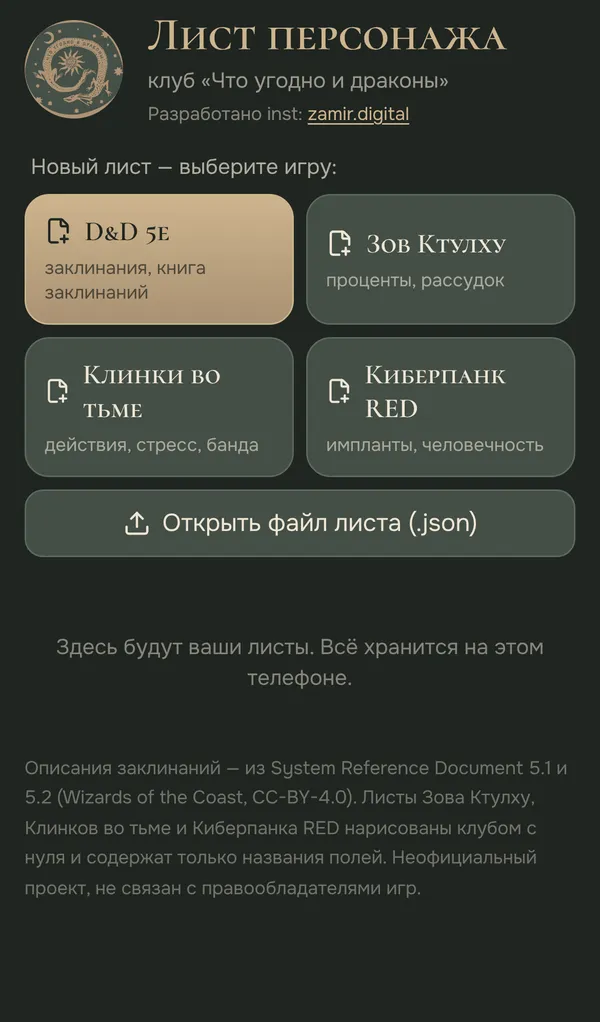
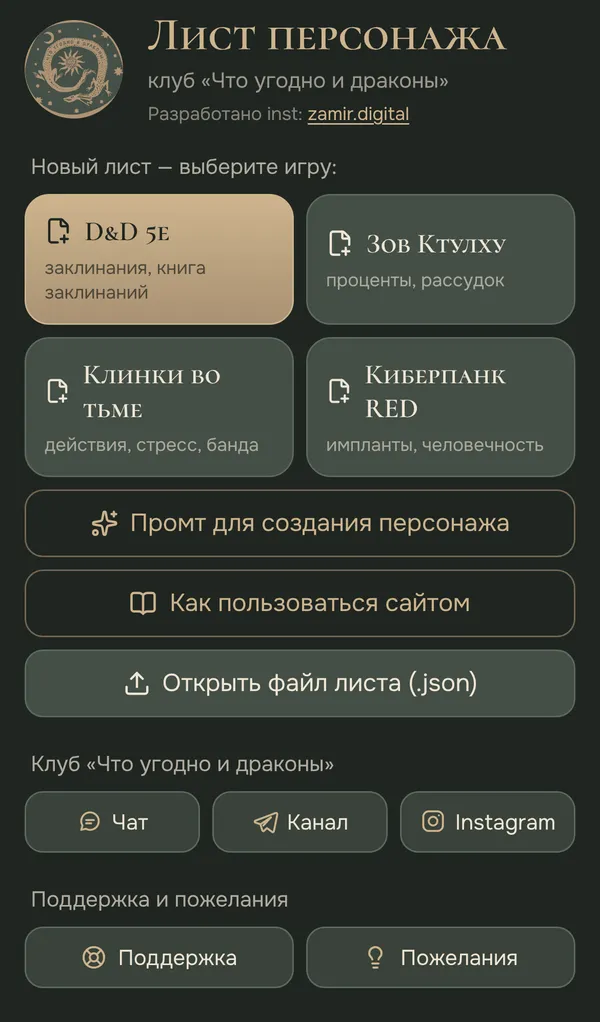
Заполнение прямо на листе (с выбором «в отдельном окне»), отмена правок, обновлённое руководство
Claude-Session: https://claude.ai/code/session_014psmEQcGbUgNjXWpQgP92z

diff --git a/src/help.ts b/src/help.ts
@@ -54,6 +54,7 @@ export const HELP: HelpSection[] = [
         'Стрелка слева вверху возвращает на главную. Лист уже сохранён, отдельно сохранять не нужно.',
         'Две закруглённые стрелки отменяют и возвращают последнее действие. Если случайно что-то стёрли, жмите «отменить».',
         'Три точки справа открывают меню листа: стиль, PDF, копию и сохранение файлом.',
+        'Кнопка «Стиль» над первой страницей открывает оформление листа: стили, шрифты, эмблему.',
         'Страницы листа идут друг за другом, прокручивайте вниз.',
         'Внизу кнопки «Страница», «Блок» и «PDF».',
       ] },
@@ -61,20 +62,21 @@ export const HELP: HelpSection[] = [
   },
   {
     id: 'fill', title: 'Заполнение', items: [
-      { p: 'Коснитесь любого поля на листе. Откроется окно, в нём впишите текст и нажмите «Сохранить». «Отмена» закроет окно без изменений.' },
-      { imgs: [{ img: '03-fill-field', cap: 'Короткое поле' }, { img: '04-fill-text', cap: 'Большой текст' }] },
+      { p: 'Нажмите на поле и пишите прямо на листе: имя, класс, внешность, предыстория, числа, таблицы с оружием и монетами. Сохранять ничего не нужно, всё запоминается сразу. Кружки отмечаются касанием.' },
+      { img: '03-inline' },
+      { p: 'Несколько блоков открываются в отдельном окне, потому что в них много мелких отметок: характеристики с навыками, навыки в процентах, список заклинаний, шкалы чисел и ячейки заклинаний. В окне нажмите «Сохранить» или «Отмена».' },
       { p: 'В углу больших текстовых блоков есть маленькие кнопки «−» и «+». Они уменьшают и увеличивают шрифт текста внутри блока, чтобы длинная предыстория поместилась. Заголовок блока при этом не меняется.' },
-      { img: '05-fontsize' },
-      { tip: 'Сайт иногда запрещает менять блок, например QR-коды клуба или заголовки. Тогда просто вписывайте в них данные, как обычно.' },
+      { tip: 'Мелко? Разведите лист двумя пальцами, чтобы приблизить. Если удобнее заполнять всё через окно, как раньше: кнопка «Стиль» → «Как заполнять поля» → «В отдельном окне».' },
+      { tip: 'Ошиблись — стрелка «отменить» вверху вернёт поле, каким оно было до правки.' },
     ],
   },
   {
     id: 'auto', title: 'Что считается само (D&D)', items: [
-      { p: 'Нажмите на характеристику и впишите значение. Модификатор посчитается сам.' },
+      { p: 'Нажмите на характеристику: откроется окно. Впишите значение, модификатор посчитается сам.' },
       { p: 'Кружок рядом со спасброском или навыком означает владение. Отметьте его, и к числу прибавится бонус мастерства. Бонус мастерства сайт берёт из уровня персонажа, поэтому уровень лучше вписать сразу.' },
       { imgs: [{ img: '06-fill-ability', cap: 'Характеристика с навыками' }, { img: '07-stats', cap: 'Страница характеристик' }] },
       { p: 'Ещё сами считаются инициатива и пассивная внимательность. Если вписать число вручную, сайт оставит ваше.' },
-      { p: 'Кружки (спасброски от смерти, ячейки заклинаний) отмечаются касанием в окне блока. Кнопками «−» и «+» в окне можно изменить, сколько кружков в ряду: например, добавить ячейки при новом уровне.' },
+      { p: 'Спасброски от смерти и другие кружки отмечаются касанием прямо на листе. Ячейки заклинаний открываются в окне: там кнопками «−» и «+» меняется, сколько ячеек каждого круга, например при новом уровне.' },
       { imgs: [{ img: '08-fill-circles', cap: 'Спасброски от смерти' }, { img: '09-fill-slots', cap: 'Ячейки заклинаний' }] },
     ],
   },

diff --git a/src/Page.tsx b/src/Page.tsx
@@ -105,6 +105,9 @@ export function PageShell({ scale, sheet, num, children }: { scale: number; shee
   );
 }
 
+/** блоки, которые заполняются прямо на листе; остальные (навыки, заклинания, шкалы) — в окне */
+const INLINE = new Set<Block['type']>(['title', 'field', 'text', 'stat', 'table', 'circles', 'checklist', 'pctstat', 'image']);
+
 type Drag = { edge: 'right' | 'bottom'; id: string; x: number; y: number; cx: number; cy: number };
 
 /**
@@ -147,8 +150,11 @@ export function LayoutPage({ page, pageIndex, sheet, scale, num }: { page: Page;
     return () => document.removeEventListener('touchstart', multi);
   }, []);
 
+  const fillMode = useStore((st) => st.fillMode);
+  const live = (b: Block) => !layout && fillMode === 'inline' && INLINE.has(b.type) && !(b.type === 'circles' && /ячейк/i.test(b.label));
   const tap = (b: Block) => {
     setPage(pageIndex);
+    if (live(b)) return;
     if (layout) { if (locked(b)) { useStore.getState().say(b.type === 'qr' ? 'QR-коды клуба не редактируются' : 'Этот блок закреплён: его место и размер менять нельзя'); return; } select(b.id); return; }
     if (b.type === 'emblem' || b.type === 'ornament' || b.type === 'qr') return;
     fill(b.id);
@@ -160,10 +166,11 @@ export function LayoutPage({ page, pageIndex, sheet, scale, num }: { page: Page;
       <PageShell scale={scale} sheet={sheet} num={num}>
         <div className="absolute inset-0" onClick={() => layout && select(undefined)} />
         {blocks.map((b) => (
-          <div key={b.id} data-label={b.label} className={`bw ${layout && selected === b.id ? 'sel' : ''} ${layout && locked(b) ? 'locked' : ''}`}
+          <div key={b.id} data-label={b.label} className={`bw ${live(b) ? 'live' : ''} ${layout && selected === b.id ? 'sel' : ''} ${layout && locked(b) ? 'locked' : ''}`}
+            onFocusCapture={live(b) ? () => useStore.getState().checkpoint() : undefined}
             style={{ left: `calc(var(--u) * ${b.x})`, top: `calc(var(--u) * ${b.y})`, width: `calc(var(--u) * ${b.w})`, height: `calc(var(--u) * ${b.h})` }}
             onClick={() => tap(b)}>
-            <BlockView b={b} sheet={sheet} fill={false} />
+            <BlockView b={b} sheet={sheet} fill={live(b)} />
             {!layout && b.type === 'text' && (
               <div className="fs-ctl no-print" onClick={(e) => e.stopPropagation()}>
                 {([-0.5, 0.5] as const).map((d) => (

diff --git a/e2e/sheet.spec.ts b/e2e/sheet.spec.ts
@@ -1,4 +1,7 @@
 import { test, expect, type Page } from '@playwright/test';
+
+// эти проверки идут через окно заполнения
+test.beforeEach(async ({ page }) => { await page.addInitScript(() => localStorage.setItem('fill-mode', 'modal')); });
 async function noOverflow(page: Page, where: string) {
   const [cw, sw] = await page.evaluate(() => [document.documentElement.clientWidth, document.documentElement.scrollWidth]);
   expect(sw, `горизонтальная прокрутка: ${where}`).toBeLessThanOrEqual(cw + 1);
@@ -124,4 +127,20 @@ test('два пальца масштабируют страницу и не тр
   await page.waitForTimeout(200);
   expect(await css()).toBe(s0);
   await expect(page.getByRole('button', { name: 'Сохранить' })).toHaveCount(0);
+});
+
+test('заполнение прямо на листе', async ({ browser }) => {
+  const ctx = await browser.newContext({ viewport: { width: 390, height: 844 }, hasTouch: true, isMobile: true });
+  const page = await ctx.newPage();
+  await page.goto('./');
+  await page.getByRole('button', { name: /D&D 5e/ }).click();
+  const name = page.locator('.bw[data-label="Имя персонажа"] input').first();
+  await name.click(); await name.fill('Гордрик');
+  await expect(page.getByLabel('Что вписать')).toHaveCount(0);
+  const cls = page.locator('.bw[data-label="Класс"] input').first();
+  await cls.click(); await cls.fill('Волшебник');
+  await page.getByRole('button', { name: 'Отменить' }).click();
+  await expect(page.locator('.bw[data-label="Класс"] input').first()).toHaveValue('');
+  await expect(page.locator('.bw[data-label="Имя персонажа"] input').first()).toHaveValue('Гордрик');
+  await ctx.close();
 });

diff --git a/src/Panels.tsx b/src/Panels.tsx
@@ -220,7 +220,7 @@ function CustomSpell({ open, onClose }: { open: boolean; onClose: () => void }) 
 }
 
 export function SettingsPanel({ open, onClose }: { open: boolean; onClose: () => void }) {
-  const { sheet, commit, say } = useStore();
+  const { sheet, commit, say, fillMode, setFillMode } = useStore();
   if (!sheet) return null;
   return (
     <Sheet open={open} onClose={onClose} title="Настройки листа">
@@ -248,6 +248,9 @@ export function SettingsPanel({ open, onClose }: { open: boolean; onClose: () =>
             <input type="checkbox" className="w-6 h-6 accent-[#aa9173]" checked={sheet.oldLabels !== false} onChange={(e) => commit((s) => ({ ...s, oldLabels: e.target.checked }))} />
           </label>
         )}
+        <Field label="Как заполнять поля (на этом телефоне)">
+          <div className="grid grid-cols-2 gap-2">{(['inline', 'modal'] as const).map((m) => <Btn key={m} tone={fillMode === m ? 'gold' : 'base'} onClick={() => setFillMode(m)}>{m === 'inline' ? 'Прямо на листе' : 'В отдельном окне'}</Btn>)}</div>
+        </Field>
         <Field label="Шрифты листа">
           <div className="grid grid-cols-2 gap-2">{FONT_SETS.map((f) => (
             <button key={f.id} onClick={() => commit((s) => ({ ...s, fonts: f.id }))} className={`fonts-${f.id} rounded-xl border p-3 text-left ${sheetFonts(sheet) === f.id ? 'border-sand bg-sand/15' : 'border-moss-light bg-moss-deep'}`}>

diff --git a/src/store.ts b/src/store.ts
@@ -33,6 +33,11 @@ interface State {
   /** изменение содержимого без записи в историю (заполнение) */
   edit(fn: (s: Sheet) => Sheet): void;
   updateBlock(id: string, patch: Partial<Block>, history?: boolean): void;
+  /** точка отмены перед правкой прямо на листе */
+  checkpoint(): void;
+  /** как заполнять блоки: прямо на листе или в отдельном окне (настройка устройства) */
+  fillMode: 'inline' | 'modal';
+  setFillMode(m: 'inline' | 'modal'): void;
   updatePage(patch: Partial<Page>): void;
   undo(): void;
   redo(): void;
@@ -56,6 +61,9 @@ function persist(s: Sheet) {
 }
 
 export const useStore = create<State>((set, get) => ({
+  fillMode: (() => { try { return localStorage.getItem('fill-mode') === 'modal' ? 'modal' : 'inline'; } catch { return 'inline'; } })(),
+  setFillMode(m) { try { localStorage.setItem('fill-mode', m); } catch { /* приватный режим */ } set({ fillMode: m }); },
+  checkpoint() { const cur = get().sheet; if (cur) set({ past: [...get().past.slice(-60), cur], future: [] }); },
   ready: false, index: [], pageIdx: 0, past: [], future: [], spells: [], spellMap: new Map(),
 
   async boot() {

diff --git a/src/blocks.tsx b/src/blocks.tsx
@@ -114,7 +114,9 @@ export function BlockView({ b: b0, sheet, fill }: { b: Block; sheet: Sheet; fill
         <div className={`blk ${frameCls} blk-pct`}>
           <Label b={b} scale={scale} />
           <div className="pct-row">
-            <div className="pct-main" style={{ fontSize: pt(b.fontSize * 2.4, scale) }}>{b.value || ''}</div>
+            {fill
+              ? <input className="inp pct-main text-center" inputMode="numeric" style={{ fontSize: pt(b.fontSize * 2.4, scale) }} value={b.value ?? ''} onChange={(e) => set({ value: e.target.value.replace(/[^\d]/g, '').slice(0, 3) })} />
+              : <div className="pct-main" style={{ fontSize: pt(b.fontSize * 2.4, scale) }}>{b.value || ''}</div>}
             <div className="pct-parts" style={{ fontSize: pt(b.fontSize * 1.05, scale) }}>
               <div><span>{ok ? Math.floor(n / 2) : ''}</span><i>½</i></div>
               <div><span>{ok ? Math.floor(n / 5) : ''}</span><i>⅕</i></div>

diff --git a/src/styles.css b/src/styles.css
@@ -207,7 +207,10 @@ input, select, textarea { font-size: 16px; }
 @media screen {
   .bw { cursor: pointer; -webkit-user-select: none; user-select: none; -webkit-touch-callout: none; }
   .bw .blk { pointer-events: none; }
-  .filling .bw:active::after { content: ''; position: absolute; inset: 0; background: rgba(170,145,115,.14); border-radius: 4px; }
+  .filling .bw.live { cursor: text; -webkit-user-select: text; user-select: text; }
+  .filling .bw.live .blk { pointer-events: auto; }
+  .filling .bw.live:focus-within { z-index: 5; box-shadow: 0 0 0 2px rgba(192,138,62,.7); border-radius: 3px; }
+  .filling .bw:not(.live):active::after { content: ''; position: absolute; inset: 0; background: rgba(170,145,115,.14); border-radius: 4px; }
 }
 .layout .bw::after { content: ''; position: absolute; inset: 0; outline: 1px dashed rgba(91,106,94,.55); outline-offset: 0; }
 .bw.sel::after { outline: 2px solid #c08a3e !important; }

diff --git a/index.html b/index.html
@@ -2,7 +2,7 @@
 <html lang="ru">
   <head>
     <meta charset="UTF-8" />
-    <meta name="viewport" content="width=device-width, initial-scale=1, viewport-fit=cover" />
+    <meta name="viewport" content="width=device-width, initial-scale=1, maximum-scale=1, viewport-fit=cover" />
     <meta name="theme-color" content="#2b322d" />
     <meta name="apple-mobile-web-app-capable" content="yes" />
     <meta name="apple-mobile-web-app-status-bar-style" content="black-translucent" />

diff --git a/e2e/games.spec.ts b/e2e/games.spec.ts
@@ -1,4 +1,7 @@
 import { test, expect } from '@playwright/test';
+
+// эти проверки идут через окно заполнения
+test.beforeEach(async ({ page }) => { await page.addInitScript(() => localStorage.setItem('fill-mode', 'modal')); });
 for (const [g, file] of [['Зов Ктулху', 'coc'], ['Клинки во тьме', 'bitd'], ['Киберпанк RED', 'cpr']] as const) {
   test(g, async ({ page }) => {
     await page.goto('./');
